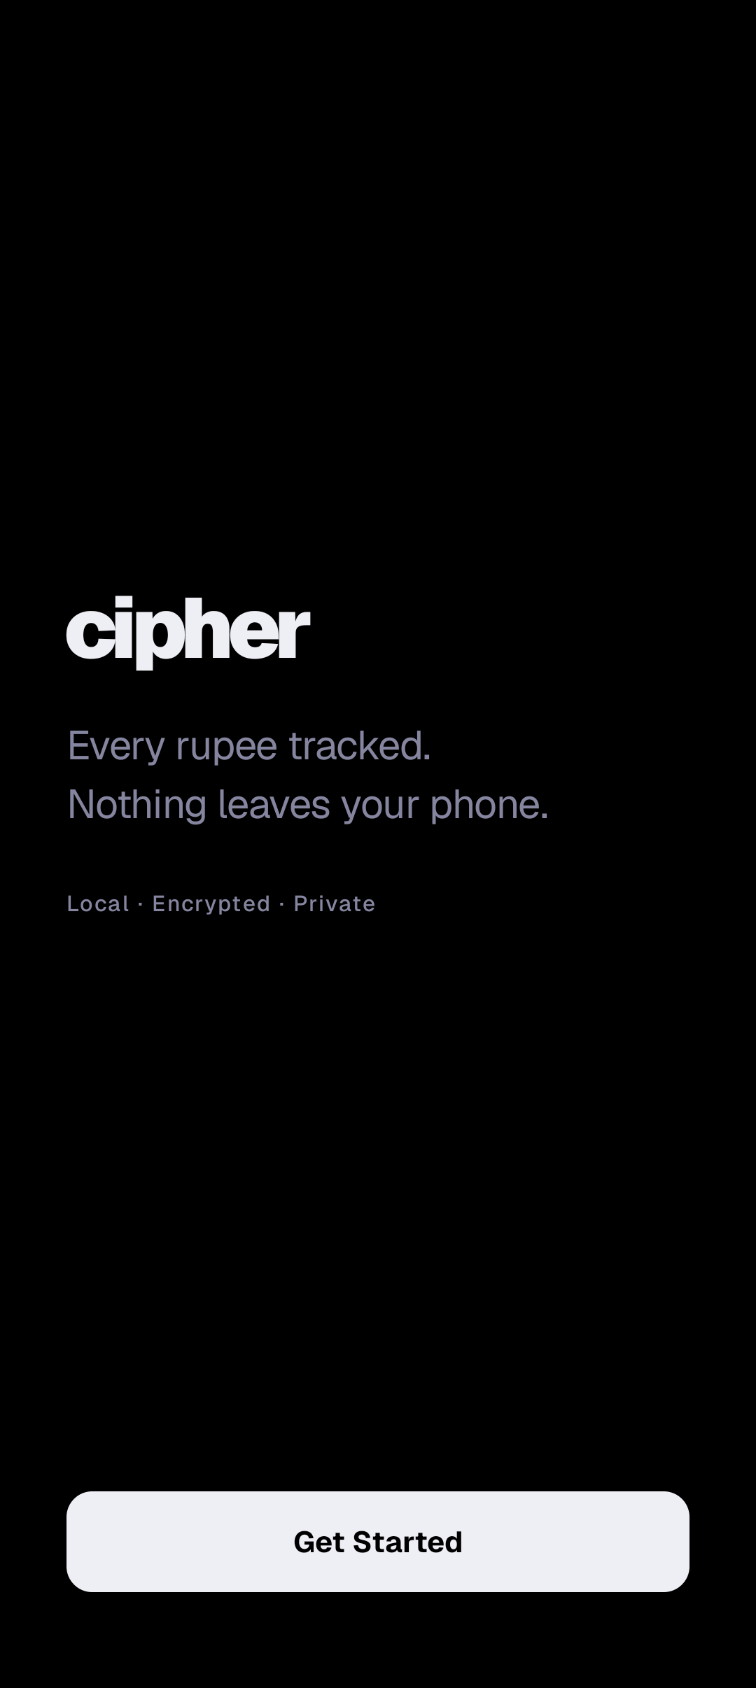
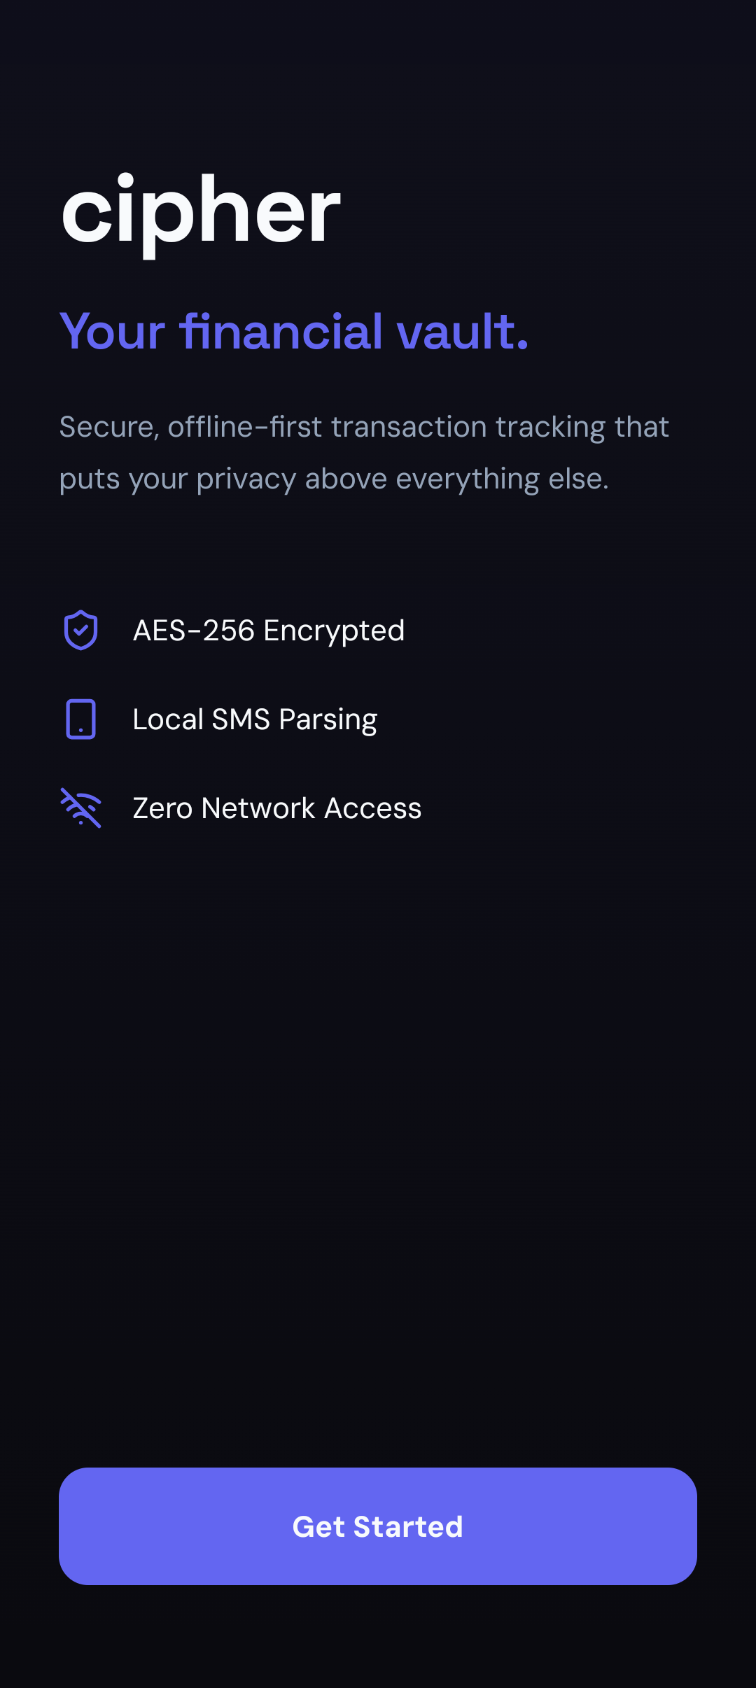
Release notes and docs

diff --git a/app/src/main/java/com/masum/cipher/ui/onboarding/OnboardingScreen.kt b/app/src/main/java/com/masum/cipher/ui/onboarding/OnboardingScreen.kt
@@ -72,8 +72,10 @@ private fun WelcomePage(onNext: () -> Unit) {
         Column(
             modifier = Modifier
                 .fillMaxSize()
+                .systemBarsPadding()
                 .padding(horizontal = 32.dp)
-                .padding(bottom = 64.dp)
+                .padding(top = 32.dp)
+                .padding(bottom = 32.dp)
                 .graphicsLayer {
                     this.alpha = alpha
                     this.translationY = offsetY
@@ -135,6 +137,7 @@ private fun PermissionPage(onComplete: () -> Unit) {
     Column(
         modifier = Modifier
             .fillMaxSize()
+            .systemBarsPadding()
             .padding(32.dp),
         horizontalAlignment = Alignment.Start
     ) {

diff --git a/RELEASE_NOTES.md b/RELEASE_NOTES.md
@@ -1,5 +1,29 @@
 # Release Notes
 
+## [4.0.0]
+
+### Added
+- **Major Redesign**: Complete visual overhaul with premium colors, typography, and component styling.
+- **Floating Navigation Bar**: A sleek, pill-shaped centered navigation bar for main app routing.
+- **Advanced Insights Charts**: Integrated the high-performance Vico library for fluid spending velocity charts and enhanced data visualization.
+- **Scrollable Activity Calendar**: Upgraded the calendar heatmap to support horizontal scrolling with clear month headers and today-highlighting.
+- **Promotional SMS Detection**: Intelligent filtering to automatically identify and drop promotional texts and spam.
+- **Transaction Sorting**: Added capability to sort transactions by spend amount directly on the dashboard.
+- **Informal SMS Support**: Updated parsing rules to detect manual test messages (e.g. "sent 1000 rs") for easier manual testing.
+- **Sponsors Page**: Added a section to recognize project sponsors.
+
+### Changed
+- **Architecture Upgrade**: Decoupled `MainActivity` into `MainViewModel` & `MainContract`, and moved business logic into a dedicated `UseCase` layer.
+- **Pattern Externalization**: Extracted hardcoded regex, keywords, and brand mappings from `SmsParser` and `CategorizerEngine` into centralized configuration objects.
+- **Robust SMS Processing**: Upgraded `SmsReceiver` to utilize `goAsync()` for highly reliable background database writes.
+- **Empty State UX**: Implemented a smooth loading indicator on app launch to prevent jarring flashes of the empty state screen.
+
+### Fixed
+- **Status Bar Overlap**: Corrected system window insets padding on the onboarding screens so content no longer clips under the device status bar.
+- **Categorizer Edge Cases**: Resolved edge cases in the categorization engine and expanded test coverage.
+
+---
+
 ## [3.0.0]
 
 ### Added

diff --git a/README.md b/README.md
@@ -272,7 +272,7 @@ app/
 | Widgets | Glance (AppWidget) |
 | Min SDK | 24 (Android 7.0) |
 | Target SDK | 35 (Android 15) |
-| Version | 3.0.0 (build 5) |
+| Version | 4.0.0 |
 
 ---
 
